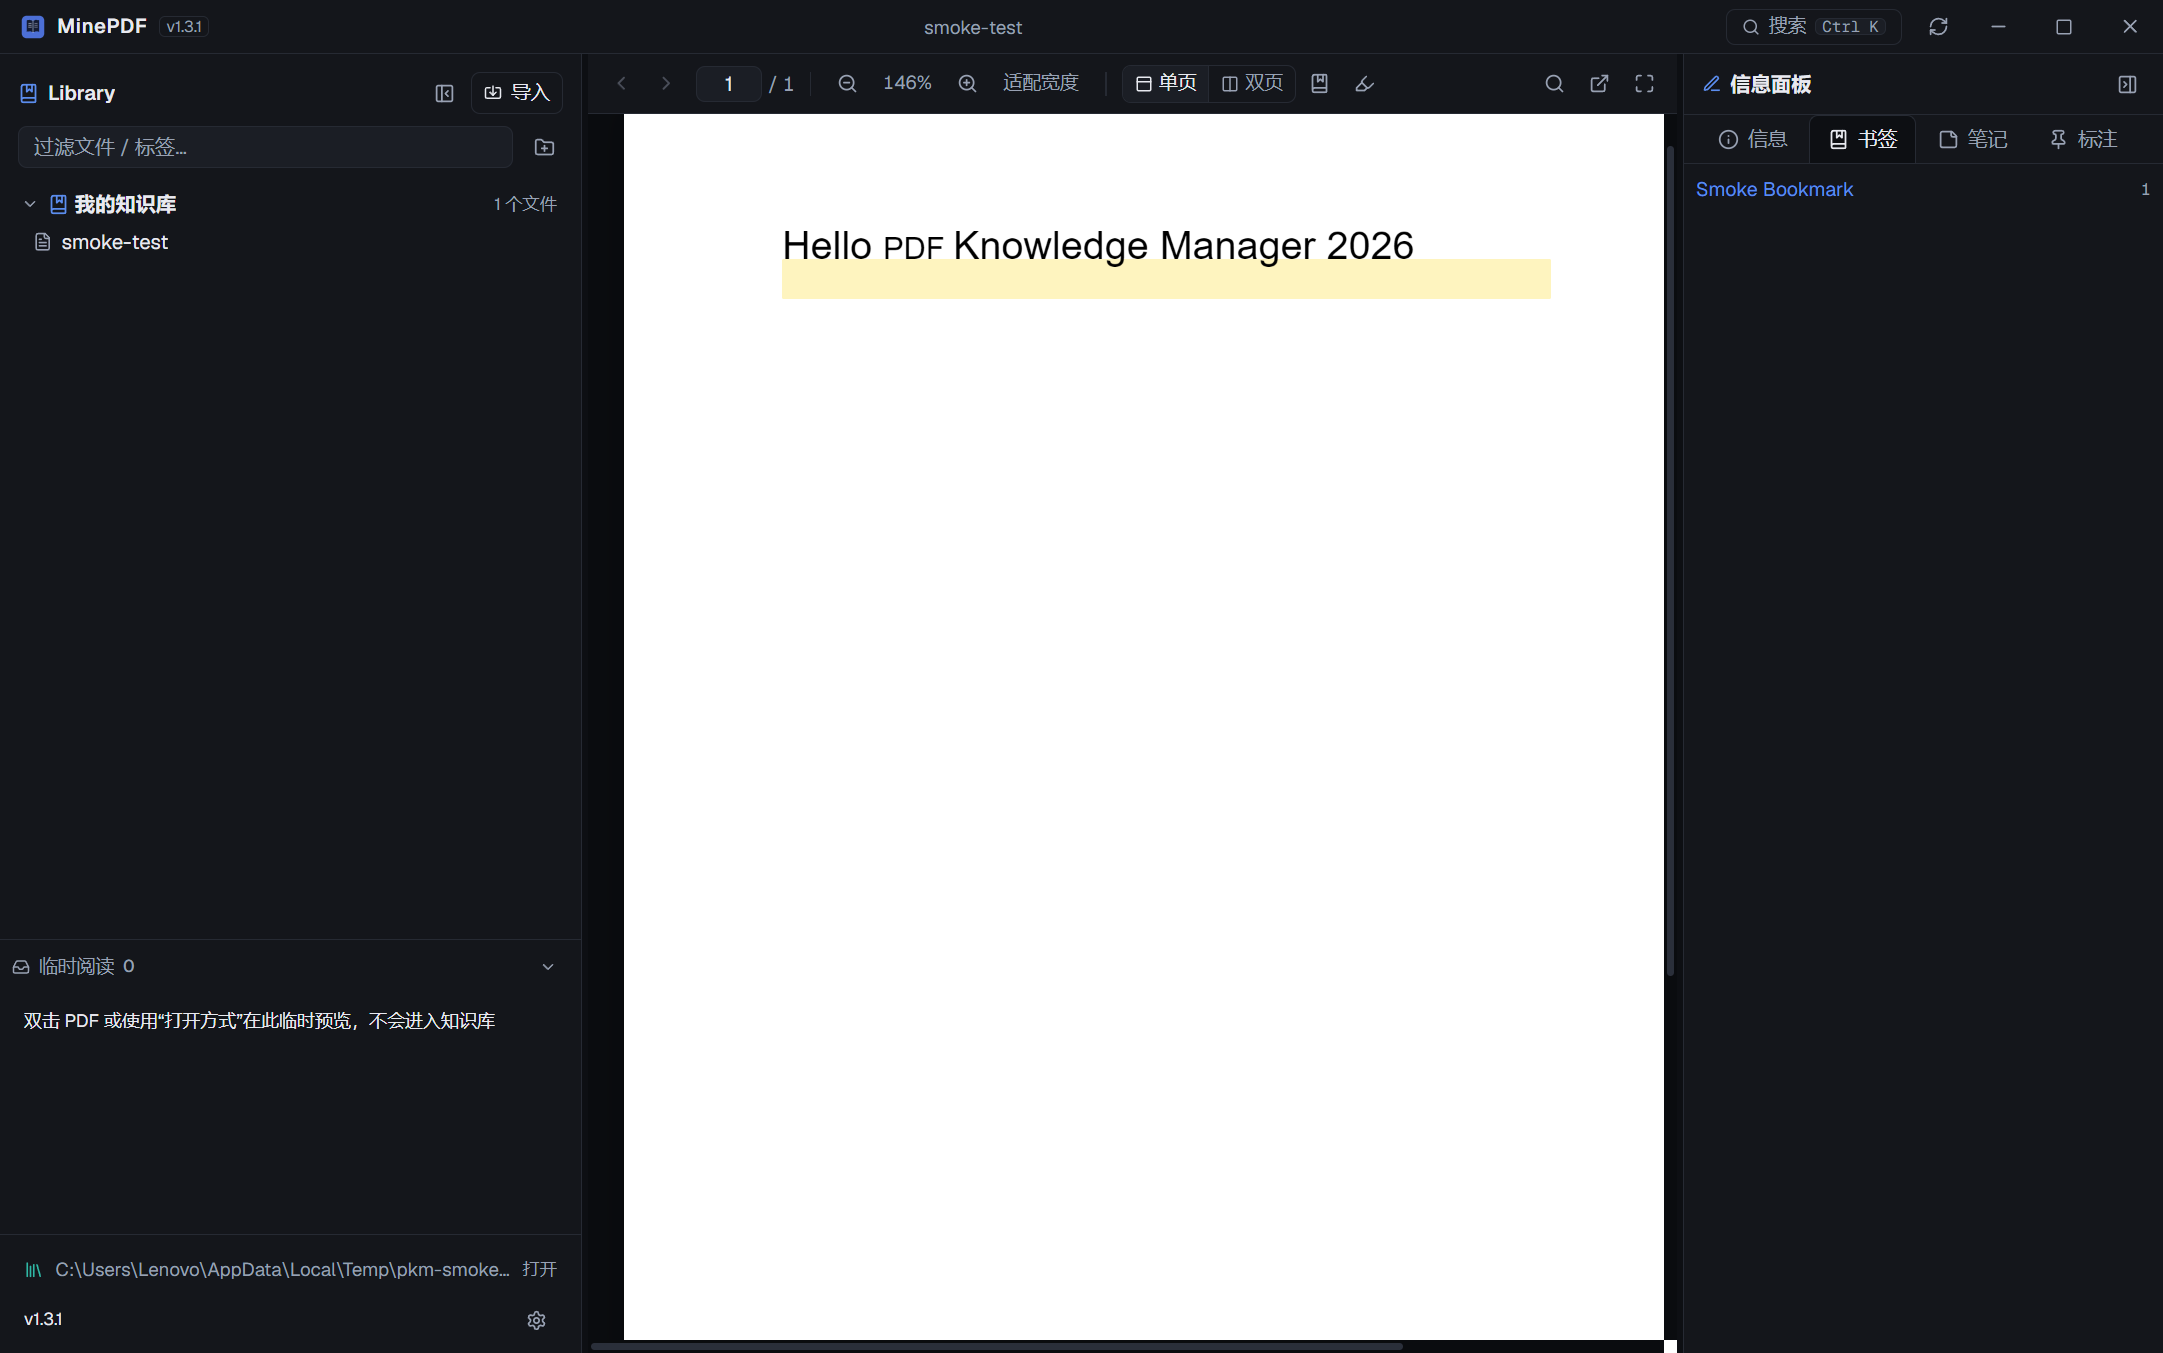
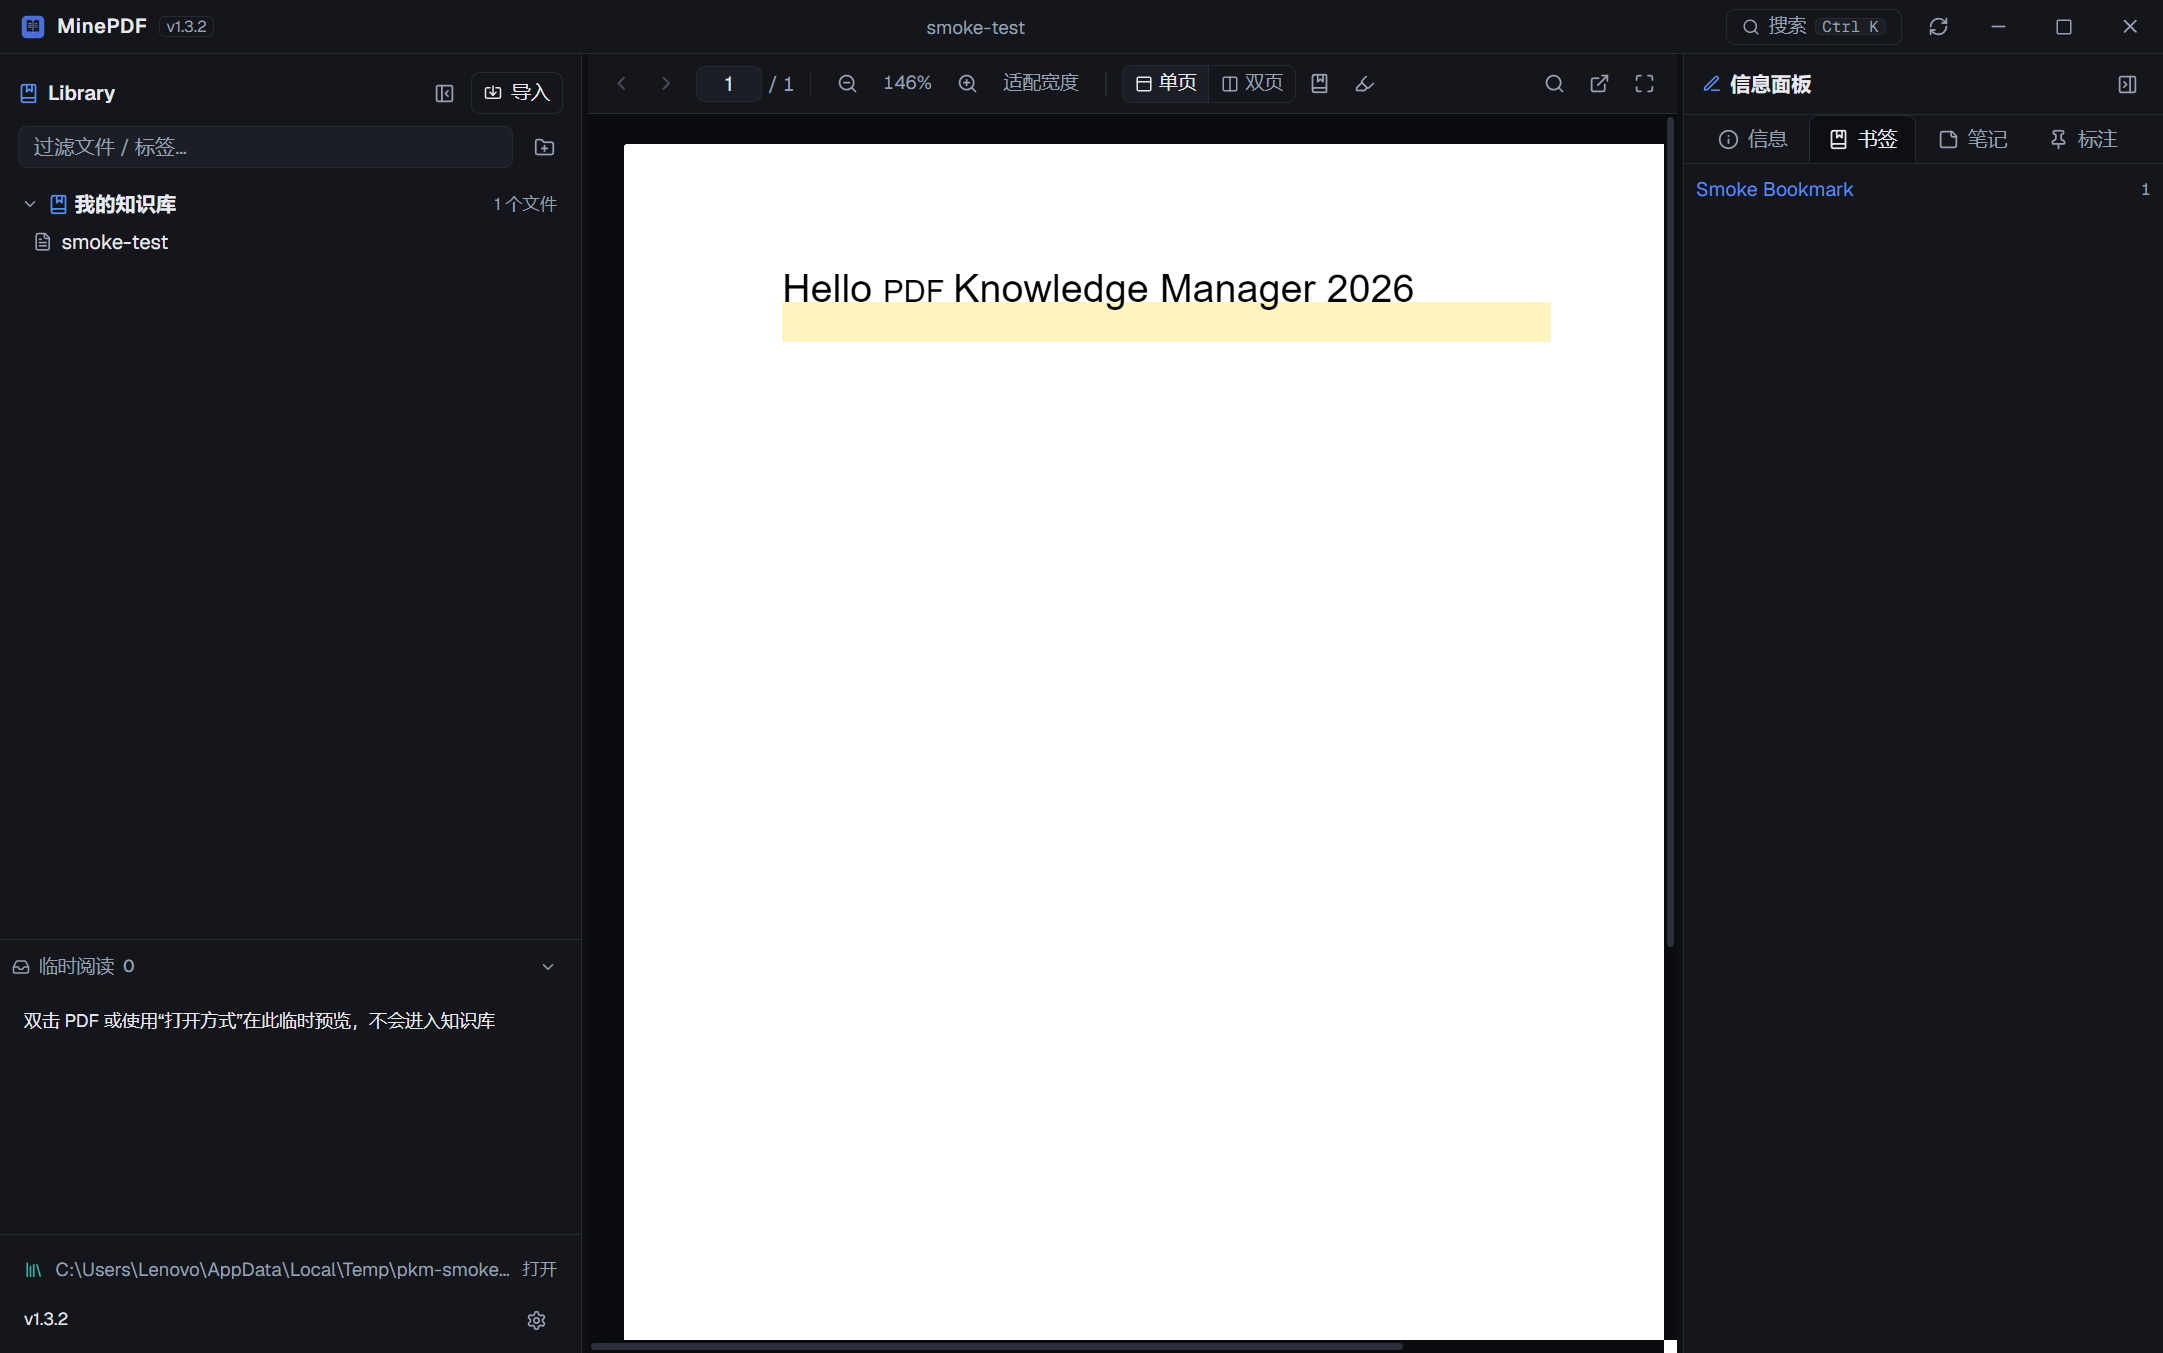
release: v1.3.3 - 沉浸式121%；有书签直达书签页；PDF文件图标蓝底

Changed region(s): [[0.3407, 0.1552, 0.7434, 0.2794], [0.2788, 0.0621, 0.7744, 0.1242], [0.4337, 0.0, 0.4646, 0.031]]

diff --git a/src/store.ts b/src/store.ts
@@ -45,6 +45,8 @@ interface AppState {
   noteRevision: number;
   /** 当前 PDF 的内置书签（目录），供信息面板显示 */
   outline: OutlineNode[];
+  /** 每个 PDF 已解析过的书签缓存（pdfId -> 目录树），用于打开时直接决定默认面板 */
+  outlines: Record<number, OutlineNode[]>;
   /** 信息面板请求跳转的页码（由阅读器消费） */
   jumpPage: number | null;
   /** 当前阅读器所在页码（用于书签高亮） */
@@ -71,6 +73,7 @@ interface AppState {
   setScreenshotMode: (v: boolean) => void;
   bumpNoteRevision: () => void;
   setOutline: (nodes: OutlineNode[]) => void;
+  setOutlineFor: (pdfId: number, nodes: OutlineNode[]) => void;
   requestJump: (page: number) => void;
   consumeJump: () => void;
   setCurrentPage: (page: number) => void;
@@ -102,6 +105,7 @@ export const useApp = create<AppState>((set, get) => ({
   screenshotMode: false,
   noteRevision: 0,
   outline: [],
+  outlines: {},
   jumpPage: null,
   currentPage: 1,
   sidebarWidth: Number(localStorage.getItem('pkm.sidebarWidth')) || 268,
@@ -128,7 +132,25 @@ export const useApp = create<AppState>((set, get) => ({
       get().toast('error', err instanceof Error ? err.message : String(err));
     }
   },
-  openPdf: (id) => set({ activePdfId: id, inspectorTab: 'meta' }),
+  openPdf: (id) => {
+    if (id == null) {
+      set({ activePdfId: null, inspectorTab: 'meta' });
+      return;
+    }
+    const s = get();
+    const pdf = s.pdfs.find((p) => p.id === id) ?? s.inboxPdfs.find((p) => p.id === id);
+    // 有书签默认书签页，无书签默认笔记页（避免先闪“信息”再跳转）
+    const cached = s.outlines[id];
+    const tab: InspectorTab =
+      cached !== undefined
+        ? cached.length > 0
+          ? 'outline'
+          : 'notes'
+        : pdf?.hasOutline
+          ? 'outline'
+          : 'notes';
+    set({ activePdfId: id, inspectorTab: tab });
+  },
   setSelectedFolder: (id) => set({ selectedFolderId: id, tagFilterId: null }),
   setInboxPdfs: (items) => set({ inboxPdfs: items }),
   setSelectedPdfIds: (ids) => set({ selectedPdfIds: ids }),
@@ -148,6 +170,8 @@ export const useApp = create<AppState>((set, get) => ({
   setScreenshotMode: (v) => set({ screenshotMode: v }),
   bumpNoteRevision: () => set((s) => ({ noteRevision: s.noteRevision + 1 })),
   setOutline: (nodes) => set({ outline: nodes }),
+  setOutlineFor: (pdfId, nodes) =>
+    set((s) => ({ outlines: { ...s.outlines, [pdfId]: nodes } })),
   requestJump: (page) => set({ jumpPage: page }),
   consumeJump: () => set({ jumpPage: null }),
   setCurrentPage: (page) => set({ currentPage: page }),

diff --git a/electron/db/repository.ts b/electron/db/repository.ts
@@ -39,6 +39,7 @@ const mapPdf = (r: Row): PdfRecord => ({
   folderId: r.folder_id == null ? null : Number(r.folder_id),
   size: Number(r.size ?? 0),
   pageCount: r.page_count == null ? null : Number(r.page_count),
+  hasOutline: Number(r.has_outline ?? 0) === 1,
   createdAt: String(r.created_time),
   updatedAt: String(r.updated_time),
   status: r.status === 'missing' ? 'missing' : 'ok',
@@ -425,6 +426,7 @@ export const repository = {
     folderId: number | null;
     size: number;
     pageCount: number | null;
+    hasOutline?: boolean;
     scope?: 'library' | 'inbox';
   }): PdfRecord {
     const db = getDb();
@@ -432,8 +434,8 @@ export const repository = {
     const scope = input.scope ?? 'library';
     const res = db
       .prepare(
-        `INSERT INTO pdfs (filename, filepath, title, folder_id, size, page_count, scope, created_time, updated_time, status)
-         VALUES (?, ?, ?, ?, ?, ?, ?, ?, ?, 'ok')`,
+        `INSERT INTO pdfs (filename, filepath, title, folder_id, size, page_count, has_outline, scope, created_time, updated_time, status)
+         VALUES (?, ?, ?, ?, ?, ?, ?, ?, ?, ?, 'ok')`,
       )
       .run(
         input.filename,
@@ -442,6 +444,7 @@ export const repository = {
         input.folderId,
         input.size,
         input.pageCount,
+        input.hasOutline ? 1 : 0,
         scope,
         t,
         t,
@@ -493,6 +496,12 @@ export const repository = {
     getDb()
       .prepare('UPDATE pdfs SET page_count = ?, updated_time = ? WHERE id = ?')
       .run(pageCount, now(), id);
+  },
+
+  updatePdfHasOutline(id: number, hasOutline: boolean): void {
+    getDb()
+      .prepare('UPDATE pdfs SET has_outline = ?, updated_time = ? WHERE id = ?')
+      .run(hasOutline ? 1 : 0, now(), id);
   },
 
   relocatePdf(id: number, newPath: string): PdfRecord {

diff --git a/src/components/Viewer/PdfViewer.tsx b/src/components/Viewer/PdfViewer.tsx
@@ -167,6 +167,9 @@ export function PdfViewer({ pdf, onMissing }: PdfViewerProps) {
     let outlineTabApplied = false;
     const applyOutline = (tree: Awaited<ReturnType<typeof getOutlineTree>>) => {
       setStoreOutline(tree);
+      // 缓存书签结果并写回数据库，下次打开直接决定默认面板，不再闪“信息”
+      useApp.getState().setOutlineFor(pdf.id, tree);
+      void window.pkm.updatePdfHasOutline(pdf.id, tree.length > 0).catch(() => undefined);
       if (!outlineTabApplied) {
         outlineTabApplied = true;
         setInspectorTab(tree.length > 0 ? 'outline' : 'notes');
@@ -611,7 +614,7 @@ export function PdfViewer({ pdf, onMissing }: PdfViewerProps) {
       if (!s.sidebarCollapsed) s.setSidebarCollapsed(true);
       if (!s.inspectorCollapsed) s.setInspectorCollapsed(true);
       setImmersive(true);
-      setScale(1.61);
+      setScale(1.21);
     } else {
       const prev = immersivePrevRef.current;
       setImmersive(false);

diff --git a/electron/services/pdfMeta.ts b/electron/services/pdfMeta.ts
@@ -40,3 +40,25 @@ export function guessPageCount(filePath: string): number | null {
     return null;
   }
 }
+
+/**
+ * 轻量判断 PDF 是否带有书签（目录）：Catalog 里出现 /Outlines 引用即视为有。
+ * 仅用于打开文档前决定信息面板默认页，打开后由 PDF.js 精确校准。
+ */
+export function guessHasOutline(filePath: string): boolean {
+  try {
+    const fd = fs.openSync(filePath, 'r');
+    const stat = fs.fstatSync(fd);
+    if (stat.size <= 0) {
+      fs.closeSync(fd);
+      return false;
+    }
+    const headSize = Math.min(stat.size, 512 * 1024);
+    const head = Buffer.alloc(headSize);
+    fs.readSync(fd, head, 0, headSize, 0);
+    fs.closeSync(fd);
+    return /\/Outlines\s+\d+\s+\d+\s+R/i.test(head.toString('latin1'));
+  } catch {
+    return false;
+  }
+}

diff --git a/src/shared/types.ts b/src/shared/types.ts
@@ -29,6 +29,8 @@ export interface PdfRecord {
   folderId: number | null;
   size: number;
   pageCount: number | null;
+  /** 是否带有书签（目录），用于打开文档时决定信息面板默认页 */
+  hasOutline: boolean;
   createdAt: string;
   updatedAt: string;
   status: 'ok' | 'missing';
@@ -167,6 +169,7 @@ export interface PkmApi {
   movePdf(id: number, folderId: number | null): Promise<void>;
   updatePdfTitle(id: number, title: string): Promise<void>;
   updatePdfPageCount(id: number, pageCount: number): Promise<void>;
+  updatePdfHasOutline(id: number, hasOutline: boolean): Promise<void>;
   relocatePdf(id: number): Promise<PdfRecord>;
   readPdf(id: number): Promise<ArrayBuffer>;
   openPdfExternal(id: number): Promise<void>;

diff --git a/electron/services/import.ts b/electron/services/import.ts
@@ -3,7 +3,7 @@ import path from 'path';
 import type { ImportResult } from '../../src/shared/types';
 import { getLibraryPdfDir } from '../db/database';
 import { repository } from '../db/repository';
-import { guessPageCount } from './pdfMeta';
+import { guessHasOutline, guessPageCount } from './pdfMeta';
 
 export interface ImportOptions {
   /** Replace metadata (instead of skipping) when the file already exists */
@@ -101,6 +101,7 @@ export async function importPdfs(
       folderId: folderIdForPdf,
       size: st.size,
       pageCount: guessPageCount(filePath),
+      hasOutline: guessHasOutline(filePath),
     });
     existingByLower.set(lower, filePath);
     counts.imported++;

diff --git a/electron/main.ts b/electron/main.ts
@@ -454,7 +454,7 @@ async function createMainWindow(): Promise<BrowserWindow> {
                       btn: true,
                       collapsed: during.sidebarW < before.sidebarW - 10,
                       maximizedDuring: during.maximized === true,
-                      zoom161: Math.abs(during.scale - 1.61) < 0.02,
+                      zoom121: Math.abs(during.scale - 1.21) < 0.02,
                       restoredW: Math.abs(after.sidebarW - before.sidebarW) < 5,
                       restoredScale: Math.abs(after.scale - before.scale) < 0.05,
                       restoredMax: after.maximized === before.maximized,

diff --git a/electron/ipc/register.ts b/electron/ipc/register.ts
@@ -241,6 +241,9 @@ export function registerIpc(): void {
   handle('pdf:move', (id: number, folderId: number | null) => repository.movePdf(id, folderId));
   handle('pdf:update-title', (id: number, title: string) => repository.updatePdfTitle(id, title));
   handle('pdf:update-page-count', (id: number, count: number) => repository.updatePdfPageCount(id, count));
+  handle('pdf:update-has-outline', (id: number, has: boolean) =>
+    repository.updatePdfHasOutline(id, Boolean(has)),
+  );
 
   handle<PdfRecord>('pdf:relocate', async (id: number) => {
     const res = await dialog.showOpenDialog(mainWin!, {

diff --git a/electron/db/database.ts b/electron/db/database.ts
@@ -91,6 +91,9 @@ function migrateSchema(db: Database.Database): void {
   if (!pdfCols.some((c) => c.name === 'scope')) {
     db.exec(`ALTER TABLE pdfs ADD COLUMN scope TEXT NOT NULL DEFAULT 'library'`);
   }
+  if (!pdfCols.some((c) => c.name === 'has_outline')) {
+    db.exec(`ALTER TABLE pdfs ADD COLUMN has_outline INTEGER NOT NULL DEFAULT 0`);
+  }
   // notes.note_file（笔记镜像文件路径，Obsidian 式可读文件名）
   const noteCols = db.prepare('PRAGMA table_info(notes)').all() as Array<{ name: string }>;
   if (!noteCols.some((c) => c.name === 'note_file')) {

diff --git a/electron/preload.ts b/electron/preload.ts
@@ -50,6 +50,7 @@ const api: PkmApi = {
   movePdf: (id, folderId) => invoke('pdf:move', id, folderId),
   updatePdfTitle: (id, title) => invoke('pdf:update-title', id, title),
   updatePdfPageCount: (id, count) => invoke('pdf:update-page-count', id, count),
+  updatePdfHasOutline: (id, has) => invoke('pdf:update-has-outline', id, has),
   relocatePdf: (id) => invoke('pdf:relocate', id),
   revealPdf: (id) => invoke('pdf:reveal', id),
   revealFolder: (id) => invoke('folder:reveal', id),

diff --git a/electron/db/schema.ts b/electron/db/schema.ts
@@ -19,6 +19,7 @@ CREATE TABLE IF NOT EXISTS pdfs (
   folder_id INTEGER REFERENCES folders(id) ON DELETE SET NULL,
   size INTEGER NOT NULL DEFAULT 0,
   page_count INTEGER,
+  has_outline INTEGER NOT NULL DEFAULT 0,
   scope TEXT NOT NULL DEFAULT 'library',
   created_time TEXT NOT NULL,
   updated_time TEXT NOT NULL,
